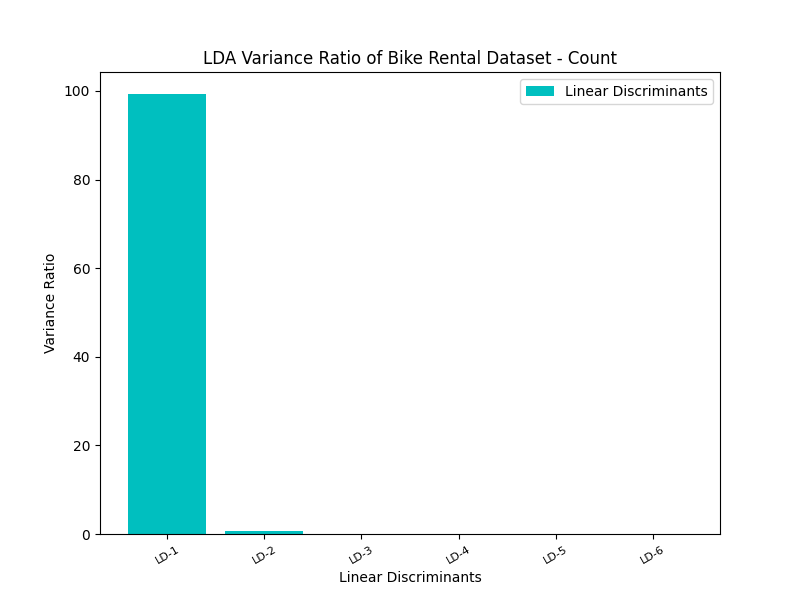
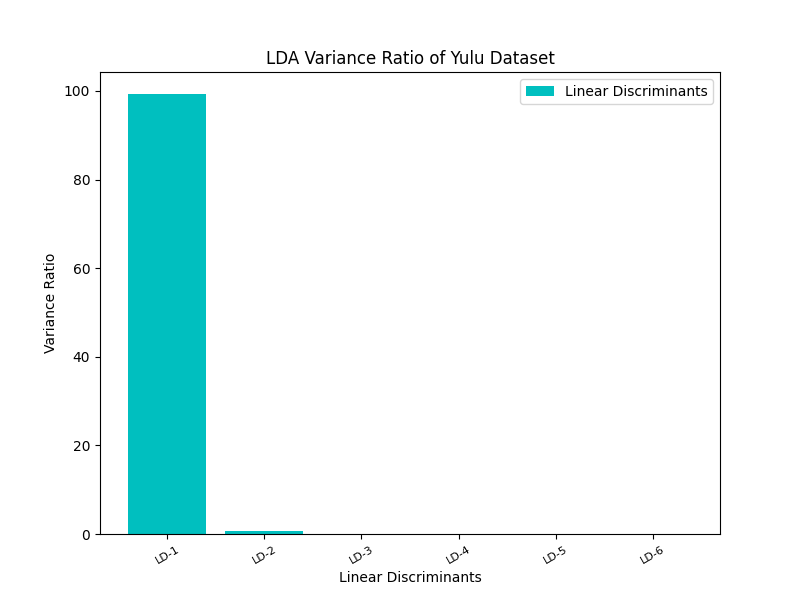
Added figures for LDA without registered and casual columns

Changed region(s): [[0.25, 0.06, 0.7812, 0.12]]

diff --git a/main.py b/main.py
@@ -128,8 +128,8 @@ num_colors = len(target['season'].unique())  # Number of unique seasons
 palette = sns.color_palette('bright', n_colors=num_colors)
 
 # Plot the pairplot with updated palette
-#ax = sns.pairplot(df_pair, height=2, aspect=0.7, palette=palette)
-#plt.savefig('pair_plot_no_debug.png')
+ax = sns.pairplot(df_pair, height=2, aspect=0.7, palette=palette)
+plt.savefig('pair_plot_no_debug.png')
 
 # ******************************
 # CORRELATION MATRIX
@@ -177,7 +177,7 @@ plt.xlabel("Bikes Rented per Hour")
 plt.savefig("count_histogram")
 plt.show()
 
-
+# Divide count column so it can be used as a label
 target['count'] = pd.cut(x=df['count'], bins=[0, 100, 200, 300, 400, 500, 600, 700, 800, 900, 1000], labels=[0, 1, 2, 3, 4, 5, 6, 7, 8, 9])
 print(target['count'].value_counts())
 
@@ -185,17 +185,6 @@ print(target['count'].value_counts())
 norm = MinMaxScaler()
 df_final = pd.DataFrame(norm.fit_transform(df))
 df_final.columns = ['temp', 'atemp', 'humidity', 'windspeed', 'casual', 'registered', 'count', 'hour']
-
-# This is kinda useless now
-'''
-fig, axes = plt.subplots(2, 2, figsize=(20, 16))
-sns.boxplot(data=df_final, x='workingday', y='count', ax=axes[0, 0])
-sns.boxplot(data=df_final, x='holiday', y='count', ax=axes[0, 1])
-sns.boxplot(data=df_final, x='season', y='count', ax=axes[1, 0])
-sns.boxplot(data=df_final, x='weather', y='count', ax=axes[1, 1])
-plt.show()
-plt.savefig('normalization.png')
-'''
 
 # ******************************
 # FEATURE SELECTION
@@ -210,69 +199,15 @@ target = target.drop(index=outliers, axis=0)
 df_final = df_final.drop(index=outliers, axis=0)
 df_final = pd.concat(objs=[df_final, target['season'], target['holiday'], target['workingday'], target['weather']], axis=1)
 
-# Might also need to drop registered and casual
-#df_final.drop(['count', 'casual', 'registered'], axis=1, inplace=True)
+# Drop target values
 df_final.drop(['count'], axis=1, inplace=True)
-
-# PCA now works but it's weird
-'''
-# Assigning X and Y for PCA
-x_pca = df_final
-y_pca = np.array(target['count'])
-
-# PCA
-pca = PCA()
-pca = pca.fit(x_pca)
-ev = pca.explained_variance_ratio_
-
-# Explained Variance Plot - PCA
-plt.figure(figsize=(8, 6))
-plt.bar([1, 2, 3, 4, 5, 6, 7, 8, 9, 10, 11], list(ev * 100), label='Principal Components', color='c')
-plt.legend()
-plt.xlabel('Principal Components')
-pc = []
-for i in range(11):
-    pc.append('PC-' + str(i + 1))
-plt.xticks([1, 2, 3, 4, 5, 6, 7, 8, 9, 10, 11], pc, fontsize=8, rotation=30)
-plt.ylabel('Variance Ratio')
-plt.title('PCA Variance Ratio of Bike Rental Dataset')
-plt.savefig('PCA_class_variance')
-# plt.show()
-
-# PCA Dimensionality Reduction
-pca = PCA(n_components=2)
-pc = pca.fit_transform(x_pca)
-
-x1 = x_pca.transpose()
-X_pca = np.matmul(x1, pc)
-
-
-# Reformat reduced data
-X_pca_df = pd.DataFrame(data=pc)
-#X_pca_df.columns = ['PC-1', 'PC-2', 'PC-3', 'PC-4', 'PC-5', 'PC-6', 'PC-7', 'PC-8', 'PC-9', 'PC-10', 'PC-11']
-
-# 2D PCA Reduction Plot
-fig = plt.figure(figsize=(10, 10))
-ax = fig.add_subplot(1, 1, 1)
-ax.set_xlabel('PC-1', fontsize=15)
-ax.set_ylabel('PC-2', fontsize=15)
-ax.set_title('PCA on Bike Rental Dataset - Count', fontsize=20)
-class_num = [0, 1, 2, 3, 4, 5, 6, 7, 8, 9]
-colors = ['r', 'b', 'g', 'y', 'orange', 'c', 'k', 'pink', 'brown', 'gray']
-for t, color in zip(class_num, colors):
-    indicesToKeep = y_pca == t
-    indicesToKeep = np.where(indicesToKeep)[0]
-    ax.scatter(X_pca_df.iloc[indicesToKeep, 0],
-               X_pca_df.iloc[indicesToKeep, 1],
-               c=color, s=9)
-ax.legend(['0 to 100', '100 to 200', '200 to 300', '300 to 400', '400 to 500', '500 to 600', '600 to 700', '700 to 800','800 to 900', '900 to 1000'])
-ax.grid()
-plt.show()
-'''
 
 # Assigning X and Y for LDA
 x_lda = df_final
 y_lda = target['count']
+
+df_noreg = df_final.drop(['registered', 'casual'], axis=1)
+x_lda_noreg = df_noreg
 
 # LDA
 lda = LinearDiscriminantAnalysis()
@@ -289,7 +224,7 @@ for i in range(6):
     ld.append('LD-' + str(i + 1))
 plt.xticks([1, 2, 3, 4, 5, 6], ld, fontsize=8, rotation=30)
 plt.ylabel('Variance Ratio')
-plt.title('LDA Variance Ratio of Bike Rental Dataset - Count')
+plt.title('LDA Variance Ratio of Yulu Dataset')
 plt.savefig('LDA_class_variance_count')
 #plt.show()
 
@@ -298,9 +233,10 @@ lda = LinearDiscriminantAnalysis(n_components=2)
 x_lda = lda.fit_transform(X=x_lda, y=y_lda)
 
 # Plot LDA scatterplot
+plt.clf()
 fig = plt.figure(figsize=(10, 10))
 ax = fig.add_subplot(1, 1, 1)
-ax.set_title('LDA on Bike Rental Dataset - Count', fontsize=20)
+ax.set_title('LDA on Yulu Dataset', fontsize=20)
 class_num = [0, 1, 2, 3, 4, 5, 6, 7, 8, 9]
 colors = ['r', 'b', 'g', 'y', 'orange', 'c', 'k', 'pink', 'brown', 'gray']
 for t, color in zip(class_num, colors):
@@ -308,10 +244,32 @@ for t, color in zip(class_num, colors):
     ax.scatter(x_lda[indicesToKeep, 0],
                x_lda[indicesToKeep, 1],
                c=color, s=9)
-ax.legend(['0 to 100', '100 to 200', '200 to 300', '300 to 400', '400 to 500', '500 to 600', '600 to 700', '700 to 800','800 to 900', '900 to 1000'])
+ax.legend(['0 to 100', '100 to 200', '200 to 300', '300 to 400', '400 to 500', '500 to 600', '600 to 700', '700 to 800',
+           '800 to 900', '900 to 1000'], title="Number of Bikes Rented")
 ax.grid()
 plt.savefig('LDA_scatterplot_count')
-#plt.show()
+plt.show()
+
+lda = LinearDiscriminantAnalysis(n_components=2)
+x_lda_noreg = lda.fit_transform(X=x_lda_noreg, y=y_lda)
+
+# Plot LDA scatterplot no registered and casual
+plt.clf()
+fig = plt.figure(figsize=(10, 10))
+ax = fig.add_subplot(1, 1, 1)
+ax.set_title('LDA on Yulu Dataset without Registered and Casual', fontsize=20)
+class_num = [0, 1, 2, 3, 4, 5, 6, 7, 8, 9]
+colors = ['r', 'b', 'g', 'y', 'orange', 'c', 'k', 'pink', 'brown', 'gray']
+for t, color in zip(class_num, colors):
+    indicesToKeep = y_lda == t
+    ax.scatter(x_lda_noreg[indicesToKeep, 0],
+               x_lda_noreg[indicesToKeep, 1],
+               c=color, s=9)
+ax.legend(['0 to 100', '100 to 200', '200 to 300', '300 to 400', '400 to 500', '500 to 600', '600 to 700', '700 to 800',
+           '800 to 900', '900 to 1000'], title="Number of Bikes Rented")
+ax.grid()
+plt.savefig('LDA_scatterplot_count_noreg')
+plt.show()
 
 # Supervised Classification w/o reduction
 classifier_labels = {"SVM - RBF": (SVC(kernel="rbf", random_state=1), "green"),
@@ -325,31 +283,39 @@ classifier_labels = {"SVM - RBF": (SVC(kernel="rbf", random_state=1), "green"),
 
 # **WARNING**, this section of the code can take up to 10 min to run
 fig1, normal_scores = plot_learning_curve(est_arr=classifier_labels, X=df_final, y=target['count'], train_sizes=np.linspace(start=0.1, stop=0.5, num=5), cv=5, n_jobs=1,
-                   title="Supervised Classification of Bike Rental Dataset Without Dimensionality Reduction")
-plt.show()
+                   title="Supervised Classification of Yulu Dataset Without Dimensionality Reduction")
 plt.savefig('classification_accuracy_count')
+plt.show()
 
 # LDA
 fig3, lda_scores = plot_learning_curve(est_arr=classifier_labels, X=x_lda, y=target['count'], train_sizes=np.linspace(start=0.1, stop=0.5, num=5), cv=5, n_jobs=1,
-                   title="Supervised Classification of Bike Rental Dataset With LDA Dimensionality Reduction")
-plt.show()
+                   title="Supervised Classification of Yulu Dataset With LDA Dimensionality Reduction")
 plt.savefig('classification_accuracy_LDA_count')
+plt.show()
 
-# Using classification data, test best classifier (Random Forest)
-x_train, x_test, y_train, y_test = train_test_split(x_lda, y_lda, train_size=0.4, random_state=1, shuffle=True)
+# Without registered and casual
+fig1, normal_scores = plot_learning_curve(est_arr=classifier_labels, X=df_noreg, y=target['count'], train_sizes=np.linspace(start=0.1, stop=0.5, num=5), cv=5, n_jobs=1,
+                   title="Supervised Classification of Yulu Dataset Without Dimensionality Reduction, without Registered and Casual")
+plt.savefig('classification_accuracy_count_no_reg')
+plt.show()
 
-# According to our classification accuracy charts, random forest performed the best
-rf = RandomForestClassifier(random_state=1)
-rf.fit(x_train, y_train)
-# rbf = 98% at 0.5 training
-#rbf = SVC(kernel="rbf", random_state=1)
-#rbf.fit(x_train, y_train)
+# LDA
+fig3, lda_scores = plot_learning_curve(est_arr=classifier_labels, X=x_lda_noreg, y=target['count'], train_sizes=np.linspace(start=0.1, stop=0.5, num=5), cv=5, n_jobs=1,
+                   title="Supervised Classification of Yulu Dataset With LDA Dimensionality Reduction, without Registered and Casual")
+plt.savefig('classification_accuracy_LDA_count_no_reg')
+plt.show()
+
+
+# Using classification data, test best classifier
+x_train, x_test, y_train, y_test = train_test_split(x_lda, y_lda, train_size=0.5, random_state=1, shuffle=True)
+
+rbf = SVC(kernel="rbf", random_state=1)
+rbf.fit(x_train, y_train)
 
 # Get predicted values to calculate RMSE and MSE
-y_pred = rf.predict(x_test)
-#y_pred = rbf.predict(x_test)
+y_pred = rbf.predict(x_test)
 
-print("\nTraining Results")
+print("\nTraining Results with Registered and Casual")
 print("-----------------------------------------------------")
 print("Coefficient of Determination:", round(r2_score(y_test, y_pred), 4))
 print("RMSE:", round(np.sqrt(mean_squared_error(y_test, y_pred)), 4))
@@ -364,7 +330,35 @@ for i in range(len(y_test.values)):
 # Calculate accuracy of predictions
 accuracy = (correct_count/len(y_test.values)) * 100
 
-print("Actual Prediction Accuracy: ", round(accuracy, 2), "%")
+print("Prediction Accuracy: ", round(accuracy, 2), "%")
+
+# No registered and casual
+# Using classification data, test best classifier
+x_train, x_test, y_train, y_test = train_test_split(x_lda_noreg, y_lda, train_size=0.2, random_state=1, shuffle=True)
+
+rbf = SVC(kernel="rbf", random_state=1)
+rbf.fit(x_train, y_train)
+
+# Get predicted values to calculate RMSE and MSE
+y_pred = rbf.predict(x_test)
+
+print("\n\nTraining Results without Registered and Casual")
+print("-----------------------------------------------------")
+print("Coefficient of Determination:", round(r2_score(y_test, y_pred), 4))
+print("RMSE:", round(np.sqrt(mean_squared_error(y_test, y_pred)), 4))
+print("MSE:", round(mean_squared_error(y_test, y_pred), 4))
+
+
+# Check predictions
+correct_count = 0
+for i in range(len(y_test.values)):
+    if y_test.values[i] == y_pred[i]:
+        correct_count += 1
+
+# Calculate accuracy of predictions
+accuracy = (correct_count/len(y_test.values)) * 100
+
+print("Prediction Accuracy: ", round(accuracy, 2), "%")
 
 
 
